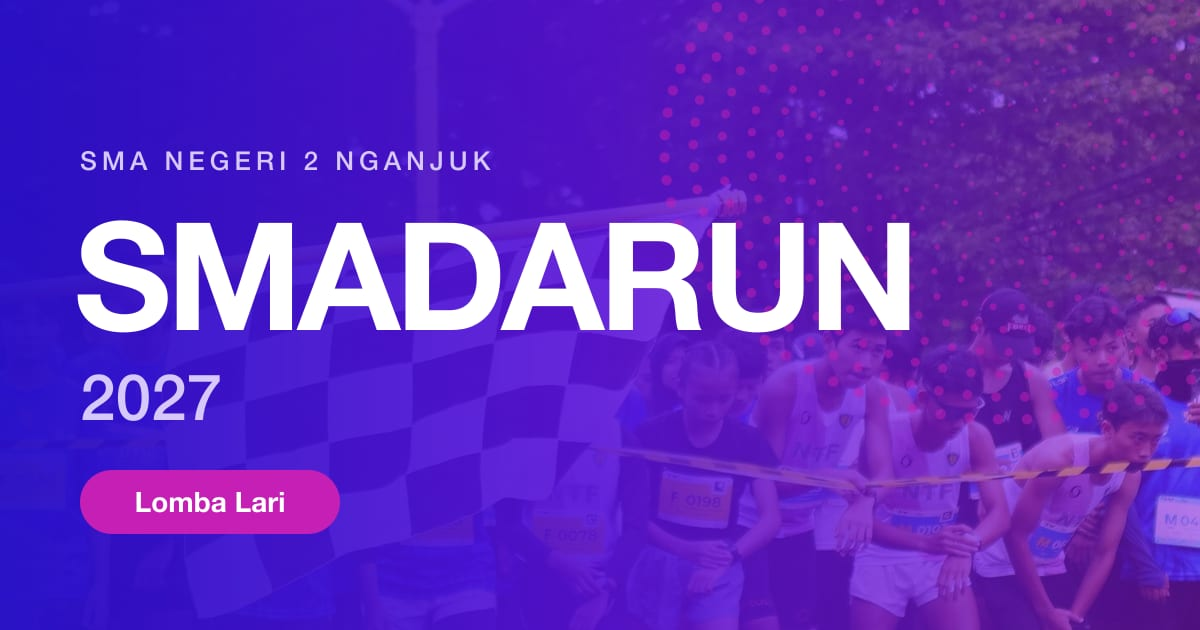
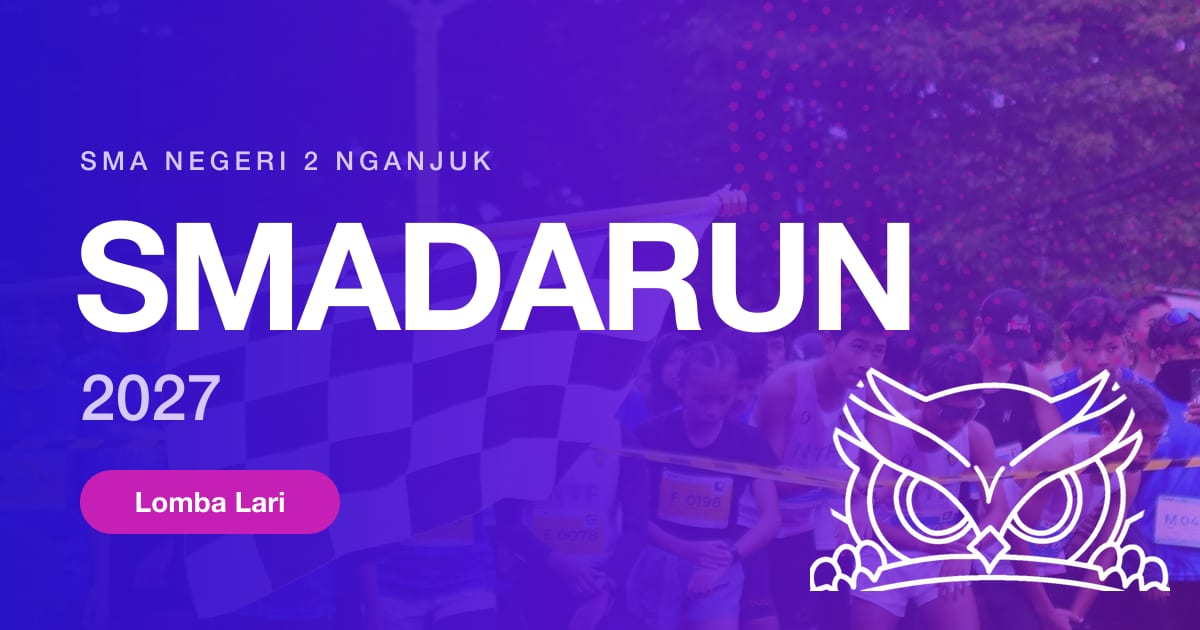
feat(seo): kartu pratinjau tautan, metadata, manifest, dan JSON-LD dilengkapi
- OG image baru dengan burung hantu; alt gambar OG/Twitter
- Deskripsi dipendekkan ≤155 karakter; og:site_name, og:locale, theme-color, robots googleBot
- /daftar: openGraph & twitter lengkap (sebelumnya mewarisi judul beranda)
- manifest.webmanifest; JSON-LD SportsEvent + image, organizer url, offers (harga dari core)

diff --git a/src/app/layout.tsx b/src/app/layout.tsx
@@ -1,4 +1,4 @@
-import type { Metadata } from "next";
+import type { Metadata, Viewport } from "next";
 import { GoogleAnalytics } from '@next/third-parties/google';
 import { Analytics } from '@vercel/analytics/next';
 import { Plus_Jakarta_Sans } from "next/font/google";
@@ -12,7 +12,26 @@ import "./globals.css";
 
 const plusJakartaSans = Plus_Jakarta_Sans({ subsets: ['latin'], variable: '--font-plus-jakarta' });
 
+// Warna bilah alamat browser ponsel (Chrome Android, Safari iOS) mengikuti gradien jersey.
+export const viewport: Viewport = {
+  themeColor: [
+    { media: "(prefers-color-scheme: light)", color: "#5A12D8" },
+    { media: "(prefers-color-scheme: dark)", color: "#12062E" },
+  ],
+};
+
 export const metadata: Metadata = {
+  applicationName: siteDetails.siteName,
+  authors: [{ name: "SMA Negeri 2 Nganjuk" }],
+  creator: "SMA Negeri 2 Nganjuk",
+  category: "sports",
+  formatDetection: { telephone: false, email: false, address: false },
+  // Izinkan Google memakai gambar besar & cuplikan penuh di hasil pencarian.
+  robots: {
+    index: true,
+    follow: true,
+    googleBot: { index: true, follow: true, "max-image-preview": "large", "max-snippet": -1, "max-video-preview": -1 },
+  },
   metadataBase: new URL(siteDetails.siteUrl),
   title: siteDetails.metadata.title,
   description: siteDetails.metadata.description,
@@ -25,6 +44,8 @@ export const metadata: Metadata = {
     description: siteDetails.metadata.description,
     url: siteDetails.siteUrl,
     type: 'website',
+    siteName: siteDetails.siteName,
+    locale: 'id_ID',
     // Gambar pratinjau (og:image) SENGAJA tidak ditulis di sini: Next.js memasangnya otomatis
     // dari src/app/opengraph-image.jpg dan twitter-image.jpg bila filenya ada. Dulu di sini
     // menunjuk /images/og-image.jpg yang tidak pernah ada (404). Lihat docs/PANDUAN_ASET.md.

diff --git a/src/app/page.tsx b/src/app/page.tsx
@@ -34,11 +34,24 @@ const HomePage = async () => {
     name: siteDetails.siteName,
     description: siteDetails.metadata.description,
     url: siteDetails.siteUrl,
+    image: [`${siteDetails.siteUrl}opengraph-image.jpg`],
     sport: "Running",
+    isAccessibleForFree: false,
     inLanguage: "id-ID",
     eventStatus: "https://schema.org/EventScheduled",
     eventAttendanceMode: "https://schema.org/OfflineEventAttendanceMode",
-    organizer: { "@type": "Organization", name: "SMA Negeri 2 Nganjuk" },
+    organizer: { "@type": "Organization", name: "SMA Negeri 2 Nganjuk", url: siteDetails.siteUrl },
+    // Harga hanya dari core dan hanya saat pendaftaran benar-benar buka (bukan Coming Soon/tutup).
+    ...(live.isOpen && live.ticketTypes.length > 0 && {
+      offers: live.ticketTypes.map((t) => ({
+        "@type": "Offer",
+        name: t.categoryKey,
+        price: t.price,
+        priceCurrency: "IDR",
+        availability: "https://schema.org/InStock",
+        url: `${siteDetails.siteUrl}daftar`,
+      })),
+    }),
     ...(mulai && { startDate: mulai }),
     ...(live.location && {
       location: { "@type": "Place", name: live.location, address: live.location },

diff --git a/src/app/daftar/page.tsx b/src/app/daftar/page.tsx
@@ -21,7 +21,22 @@ export const metadata: Metadata = {
     "Daftar SMADARUN 2027, lomba lari SMA Negeri 2 Nganjuk. Pilih kategori tiket, isi data peserta, dan bayar online.",
   // Tanpa ini halaman mewarisi canonical beranda dari layout.tsx dan dianggap duplikatnya.
   alternates: { canonical: "/daftar" },
-  openGraph: { url: "/daftar" },
+  // openGraph/twitter di sini MENGGANTI milik layout (tidak digabung), jadi ditulis lengkap.
+  openGraph: {
+    title: "Daftar SMADARUN 2027 — Pendaftaran Lomba Lari SMA Negeri 2 Nganjuk",
+    description:
+      "Daftar SMADARUN 2027, lomba lari SMA Negeri 2 Nganjuk. Pilih kategori tiket, isi data peserta, dan bayar online.",
+    url: "/daftar",
+    type: "website",
+    siteName: "SMADARUN 2027",
+    locale: "id_ID",
+  },
+  twitter: {
+    card: "summary_large_image",
+    title: "Daftar SMADARUN 2027 — Pendaftaran Lomba Lari SMA Negeri 2 Nganjuk",
+    description:
+      "Daftar SMADARUN 2027, lomba lari SMA Negeri 2 Nganjuk. Pilih kategori tiket, isi data peserta, dan bayar online.",
+  },
 };
 
 export default async function DaftarPage() {

diff --git a/src/data/siteDetails.ts b/src/data/siteDetails.ts
@@ -5,7 +5,8 @@ export const siteDetails = {
     siteUrl: 'https://www.smadarun.id/',
     metadata: {
         title: 'SMADARUN 2027 - Lomba Lari SMA Negeri 2 Nganjuk',
-        description: 'SMADARUN 2027 adalah ajang lari tahunan yang dipersembahkan oleh SMA Negeri 2 Nganjuk. Terbuka untuk umum dan pelari dari mana saja. Rayakan semangat olahraga, kebersamaan, dan kompetisi sehat.',
+        // ≤155 karakter: lebih panjang dari itu dipotong di hasil Google dan kartu pratinjau WhatsApp.
+        description: 'SMADARUN 2027: lomba lari tahunan SMA Negeri 2 Nganjuk, terbuka untuk umum. Pilih kategori, daftar online, dan rasakan serunya berlari bersama.',
     },
     language: 'id-id',
     locale: 'id-ID',

diff --git a/src/app/manifest.ts b/src/app/manifest.ts
@@ -1,0 +1,18 @@
+import type { MetadataRoute } from "next";
+
+import { siteDetails } from "@/data/siteDetails";
+
+// Manifest web: nama & ikon saat situs dipasang ke layar utama Android dan untuk mesin pencari.
+export default function manifest(): MetadataRoute.Manifest {
+  return {
+    name: siteDetails.metadata.title,
+    short_name: siteDetails.siteName,
+    description: siteDetails.metadata.description,
+    lang: "id",
+    start_url: "/",
+    display: "browser",
+    background_color: "#F6F3FF",
+    theme_color: "#5A12D8",
+    icons: [{ src: "/icon.png", sizes: "512x512", type: "image/png" }],
+  };
+}
